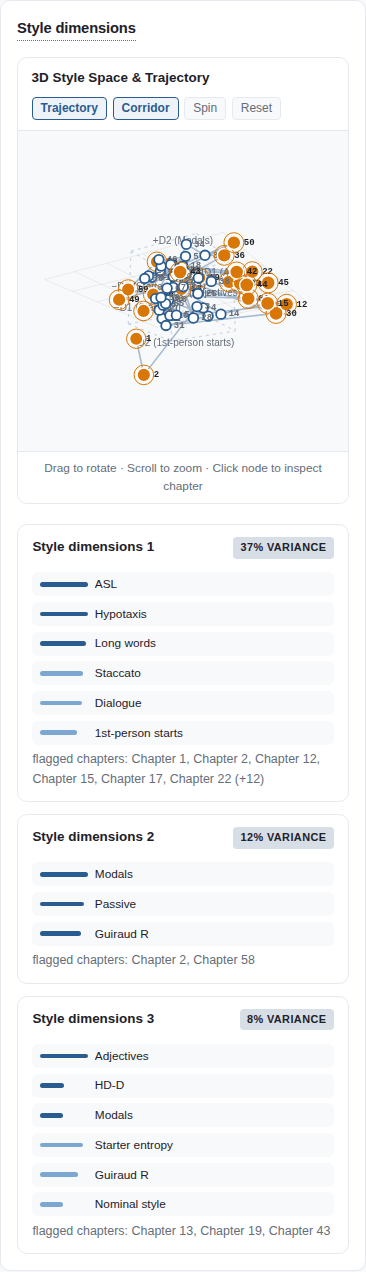
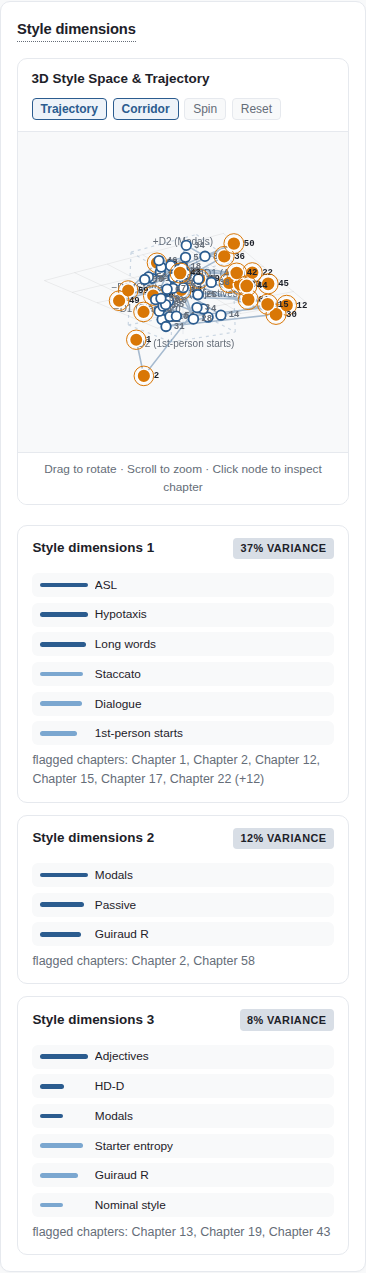
Release Lixity 1.15.0 with verified artifacts and migration guidance

diff --git a/docs/index.html b/docs/index.html
@@ -53,7 +53,7 @@
       "applicationCategory": "UtilitiesApplication",
       "applicationSubCategory": "Linguistic & Stylometric Analysis",
       "operatingSystem": "Linux, macOS, Windows",
-      "softwareVersion": "1.15.0.dev0",
+      "softwareVersion": "1.15.0",
       "isAccessibleForFree": true,
       "license": "https://github.com/mfahsold/lixity/blob/main/LICENSE",
       "codeRepository": "https://github.com/mfahsold/lixity",
@@ -373,9 +373,9 @@ footer {
   </div>
 
   <h2>What It Looks Like</h2>
-  <p><strong>Development preview: 1.15.0.dev0.</strong> This page includes
-    unreleased work on <code>main</code>. The published <code>v1.14.0</code> tag
-    remains a separate installation choice; no <code>v1.15.0</code> release is implied.</p>
+  <p><strong>Lixity 1.15.0.</strong> Explore the refreshed dashboard, shared
+    analysis pipeline and rendering security fixes.
+    <a href="https://github.com/mfahsold/lixity/releases/tag/v1.15.0">Release notes and downloads</a>.</p>
   <span class="section-kicker">Interactive Macro-Editing Dashboard</span>
   <figure class="shot">
     <a href="screenshots/dashboard-light.png" target="_blank" rel="noopener"><img src="screenshots/dashboard-light.png" alt="Lixity interactive HTML dashboard with grouped KPI tiles, style heatmap and tense continuity" width="1600" height="1050" loading="eager" fetchpriority="high" decoding="async"/></a>
@@ -443,7 +443,7 @@ footer {
         engine version and the localized non-commercial-use notice remain visible.</figcaption>
     </figure>
     <figure class="shot">
-      <a href="screenshots/dashboard-dimensions-mobile.png" target="_blank" rel="noopener"><img src="screenshots/dashboard-dimensions-mobile.png" alt="Full mobile style-dimension panel with stacked controls and feature loadings" width="366" height="1272" loading="lazy" decoding="async"/></a>
+      <a href="screenshots/dashboard-dimensions-mobile.png" target="_blank" rel="noopener"><img src="screenshots/dashboard-dimensions-mobile.png" alt="Full mobile style-dimension panel with stacked controls and feature loadings" width="366" height="1273" loading="lazy" decoding="async"/></a>
       <figcaption><strong>Readable mobile diagnostics</strong> &ndash; complete
         dimension cards, wrapping controls and labels rather than a desktop crop.</figcaption>
     </figure>
@@ -629,17 +629,16 @@ footer {
       <a href="https://git-scm.com/downloads">Git</a> and
       <a href="https://docs.astral.sh/uv/getting-started/installation/">uv</a> first;
       uv can supply Python 3.12. No account, API key or manuscript upload is needed.</p>
-    <pre>uv tool install --python 3.12 "git+https://github.com/mfahsold/lixity.git@main"
+    <pre>uv tool install --python 3.12 "git+https://github.com/mfahsold/lixity.git@v1.15.0"
 lixity --version
 lixity about
 lixity build manuscript.md --language en</pre>
     <p>Use a UTF-8 Markdown manuscript with <code>## Chapter title</code> headings.
       Open <code>exports/manuscript_dashboard.html</code> locally. For German,
       use <code>--language de</code>; automatic detection is explicit.</p>
-    <p><strong>Version choice:</strong> <code>main</code> installs the unreleased
-      <code>1.15.0.dev0</code> with the new UI. Choose <code>@v1.14.0</code> instead
-      for the older published release, or pin a reviewed commit for reproducibility.
-      Update the chosen source with <code>uv tool upgrade lixity</code>.</p>
+    <p><strong>Version choice:</strong> <code>@v1.15.0</code> pins this release.
+      Select a future tag explicitly to upgrade; <code>uv tool upgrade lixity</code>
+      retains the chosen ref. Use <code>@main</code> only for development builds.</p>
     <p><strong>Non-commercial use only (LNCL-1.0).</strong> Not on PyPI.
       Python 3.10+ supports the engine; TOML project settings require 3.11+.
       Standalone HTML is not an editing/NDA server; those actions require an adapter.</p>
@@ -710,7 +709,7 @@ html = api.dashboard(text, language="en", title="My Novel")</pre>
       <summary>What languages are supported?</summary>
       <p>Profiles cover English (en), German (de), French (fr), Spanish (es),
         Italian (it), Portuguese (pt), and Dutch (nl), plus a generic fallback.
-        English is the development version's default. Select a language or use
+        English is the default. Select a language or use
         <code>--language auto</code> for function-word-based detection. Dashboard
         resources cover all seven languages; CLI messages currently have English
         and German packs. Heuristic accuracy varies with language and text.</p>

diff --git a/src/lixity/_version.py b/src/lixity/_version.py
@@ -1,3 +1,3 @@
 """Single source of truth for the package version (readable by setuptools without imports)."""
 
-__version__ = "1.15.0.dev0"
+__version__ = "1.15.0"

diff --git a/docs/releases/v1.15.0.md b/docs/releases/v1.15.0.md
@@ -1,0 +1,85 @@
+# Lixity 1.15.0 — coherent dashboards, explicit configuration and safer rendering
+
+This release consolidates the analysis pipeline, improves manuscript inspection
+on desktop and mobile, and fixes security issues in optional adapter controls.
+It remains source-available under LNCL-1.0 for non-commercial use.
+
+## Highlights
+
+- Shared `lixity.pipeline` computes corpus metrics once and reuses them for
+  paragraph profiles and the style fingerprint. Projects reuse the engine
+  rather than maintaining analysis copies.
+- A consistent panel-spacing system, readable mobile tables/charts, clearer
+  settings and project/version identity. The book-style serif is limited to
+  the project title; interface text retains a system sans-serif.
+- Interactive 3D style dimensions with accurate point picking, zoom and
+  rotation controls. Rendering is idle when no animation is requested.
+- Clearer style-reference and fingerprint displays: fixed color-scale legend,
+  FDR markers/filtering, sample counts, robust-reference explanations and
+  chapter-matrix tooltips in seven languages, including keyboard support.
+- English analysis defaults and explicit automatic detection, with localized
+  linguistic resources, numerical formatting and scientific explanations.
+- `--min-chapters` on `style`, `dashboard` and `build`; matching API calibration
+  arguments and explicit threshold mappings for project isolation.
+- Isolated installation recipes, Windows/API/update guidance, refreshed public
+  screenshots, neutral agent guidance and documented integration boundaries.
+
+## Security fixes
+
+NDA records returned by an adapter are now rendered using DOM text properties,
+not raw HTML interpolation. Artifact links reject executable URL schemes.
+Update the engine, restart the embedding server and reload open dashboards.
+Previously exported HTML embeds its old scripts; regenerate it to receive fixes.
+
+These fixes do not make arbitrary adapters safe for remote exposure. Keep local
+services on loopback and treat generated dashboards as private manuscript data.
+
+## Migration checklist
+
+1. **Choose the manuscript language.** Defaults are now English. Pass
+   `--language de` for German or `--language auto` for detection. Existing
+   pipelines relying on implicit detection must select it explicitly.
+2. **Use Python 3.11+ for TOML settings** (3.12 is the installation default).
+   Python 3.10 still runs the engine, but does not load project TOML settings.
+3. **Review project isolation.** Explicit CLI file paths load configuration
+   relative to that manuscript. API `project_config={}` disables implicit
+   threshold discovery; language/title/corpus options remain explicit.
+4. **Review thresholds.** `min_chapters` is now honored by the public API and
+   must be an integer of at least 2. Re-read resolved settings from passport
+   metadata; threshold hits and FDR-selected cells are different result sets.
+5. **Use the local environment.** `make install` now creates `.venv` instead
+   of installing into global Python. Invoke `.venv/bin/lixity` or activate it.
+6. **Use one NDA workflow.** The duplicate legacy entry form was removed;
+   the encrypted NDA manager remains available through supporting adapters.
+
+JSON analysis/profile schema remains v2; the style passport remains v4.
+No manuscript migration or destructive data conversion is performed.
+Standalone HTML is an analysis document, not a bundled editing/NDA server.
+
+## Install or replace an older CLI
+
+Requires Git and uv:
+
+```sh
+uv tool install --force --python 3.12 "git+https://github.com/mfahsold/lixity.git@v1.15.0"
+lixity --version
+lixity build manuscript.md --language en
+```
+
+Open `exports/manuscript_dashboard.html`. The tag is pinned; selecting a future
+release requires changing the tag explicitly. Wheel and source distribution
+downloads include `SHA256SUMS` for integrity verification. This checksum file
+is not a cryptographic signature or independent publisher attestation.
+
+## Validation and limits
+
+Release preparation includes Python tests, strict typing/lint, browser layout
+and interaction checks at 320/390/768/1440 pixels, synthetic injection tests,
+clean-environment installation and idempotent workspace builds. CI covers
+Python 3.10–3.13. These checks do not establish language-wide accuracy or an
+objective writing-quality measure. Small corpora and heuristic patterns still
+require careful interpretation; canvas keyboard navigation remains limited.
+
+[Full changelog](https://github.com/mfahsold/lixity/blob/v1.15.0/CHANGELOG.md)
+· [Installation](https://github.com/mfahsold/lixity/blob/v1.15.0/docs/INSTALLATION.md)
+· [Methods and limits](https://github.com/mfahsold/lixity/blob/v1.15.0/docs/STABILITY.md)

diff --git a/docs/INSTALLATION.md b/docs/INSTALLATION.md
@@ -20,33 +20,33 @@ the GitHub source commands. Install [Git](https://git-scm.com/downloads) and
 Do not run multiple installation routes into the same environment, use `sudo
 pip`, or bypass an externally managed Python environment.
 
-## CLI: current development version
+## CLI: current release
 
 These commands work in a terminal, including Windows PowerShell:
 
 ```sh
-uv tool install --python 3.12 "git+https://github.com/mfahsold/lixity.git@main"
+uv tool install --python 3.12 "git+https://github.com/mfahsold/lixity.git@v1.15.0"
 lixity --version
 lixity about
 ```
 
-The current checkout is **1.15.0.dev0**, not a published 1.15.0 release.
-`main` includes the new UI and shared pipeline and can change. For reproducible
-automation, replace `main` with a reviewed full commit hash.
+The current release is **v1.15.0**. The tag includes the new UI, shared pipeline
+and rendering security fixes. For reproducible automation, pin this tag or
+its reviewed full commit hash. Read the [migration notes](releases/v1.15.0.md).
 
 If `lixity` is not found, run `uv tool update-shell`, open a new terminal and
 retry. `uv tool list` shows the installed source. A tool installation does not
 make `import lixity` available to a different Python environment.
 
-### Published release instead
+### Development builds instead
 
-If you prefer the older published release, use this **instead**:
+To follow unreleased changes, use this **instead**:
 
 ```sh
-uv tool install --python 3.12 "git+https://github.com/mfahsold/lixity.git@v1.14.0"
+uv tool install --python 3.12 "git+https://github.com/mfahsold/lixity.git@main"
 ```
 
-New development features are not included in that release. Review
+`main` can change and is not a release pin. Review
 [release notes](https://github.com/mfahsold/lixity/releases) before switching.
 To deliberately replace an existing installation, repeat the chosen command
 with `--force`. This does not alter manuscript files.
@@ -63,7 +63,7 @@ selected source/ref: a pinned tag or commit does not move to `main`.
 Restart any running adapter/server after an engine update.
 
 If you already use pipx, the equivalent alternative is
-`pipx install "git+https://github.com/mfahsold/lixity.git@main"`, followed by
+`pipx install "git+https://github.com/mfahsold/lixity.git@v1.15.0"`, followed by
 `pipx ensurepath` if necessary; update with `pipx upgrade lixity`.
 
 ## First useful result
@@ -98,7 +98,7 @@ Linux/macOS:
 
 ```sh
 python3 -m venv .venv
-.venv/bin/python -m pip install "git+https://github.com/mfahsold/lixity.git@main"
+.venv/bin/python -m pip install "git+https://github.com/mfahsold/lixity.git@v1.15.0"
 .venv/bin/python -m pip check
 .venv/bin/python -c "import lixity; print(lixity.__version__)"
 ```
@@ -107,7 +107,7 @@ Windows PowerShell (no activation or execution-policy change needed):
 
 ```powershell
 py -3.12 -m venv .venv
-.\.venv\Scripts\python.exe -m pip install "git+https://github.com/mfahsold/lixity.git@main"
+.\.venv\Scripts\python.exe -m pip install "git+https://github.com/mfahsold/lixity.git@v1.15.0"
 .\.venv\Scripts\python.exe -m pip check
 .\.venv\Scripts\python.exe -c "import lixity; print(lixity.__version__)"
 ```

diff --git a/README.md b/README.md
@@ -103,15 +103,15 @@ Install from GitHub into an isolated CLI environment. Requires Git and
 Python 3.12. Source-available under LNCL-1.0, **non-commercial use only**, not PyPI.
 
 ```bash
-uv tool install --python 3.12 "git+https://github.com/mfahsold/lixity.git@main"
+uv tool install --python 3.12 "git+https://github.com/mfahsold/lixity.git@v1.15.0"
 lixity --version
 lixity about
 ```
 
-This installs **1.15.0.dev0 from main**, including the new UI; it is not a
-published 1.15.0 release. Use `@v1.14.0` instead for the older published release,
-or a full commit hash for reproducible deployments. Update your chosen source
-with `uv tool upgrade lixity`; a pinned ref remains pinned.
+This installs **v1.15.0**, including the new UI, shared pipeline and security
+fixes. The tag stays pinned: upgrading to a future release requires selecting
+its tag explicitly. Use `@main` only for development builds, or a reviewed
+full commit hash for reproducible deployments.
 
 **[Full installation guide](docs/INSTALLATION.md):** Windows/macOS/Linux,
 pipx alternative, Python API environments, PATH repair, upgrades and removal.
@@ -188,11 +188,11 @@ Full command reference, metric glossary, worked example, and troubleshooting:
 [`docs/AGENTS.md`](docs/AGENTS.md). Project website:
 [mfahsold.github.io/lixity](https://mfahsold.github.io/lixity/).
 
-## What's new in the development version
+## What's new in v1.15.0
 
-**1.15.0.dev0 is an unreleased development version.** The latest version
-listed in the release history is 1.14.0; its tag does not include the changes
-below. Use an editable checkout to try them before the next release.
+**v1.15.0** includes the UI, architecture and security improvements below.
+Read the [release notes and migration checklist](docs/releases/v1.15.0.md)
+before updating an existing project, especially its language defaults.
 
 - **Explore style in 3D:** rotate and zoom chapter trajectories, toggle the
   trajectory and threshold box, and select a point to reach its chapter.
@@ -236,7 +236,7 @@ An empty `project_config={}` isolates thresholds from user/project files;
 explicit threshold arguments override the supplied mapping. The pipeline itself
 does not read files, discover projects or maintain global session state.
 
-Adapters using the shared pipeline must install this checkout until release.
+Adapters using the shared pipeline require Lixity 1.15.0 or newer.
 See [architecture and integration boundaries](docs/ARCHITECTURE.md) for the
 configuration contract and [language support](docs/LOCALIZATION.md) for its
 scope, guarantees and limitations.

diff --git a/CHANGELOG.md b/CHANGELOG.md
@@ -7,6 +7,10 @@ this project uses [Semantic Versioning](https://semver.org/spec/v2.0.0.html).
 
 ## [Unreleased]
 
+No changes yet.
+
+## [1.15.0] – 2026-09-24
+
 ### Added
 
 - Explanatory settings form with visible labels, expandable thresholds,
@@ -21,7 +25,7 @@ this project uses [Semantic Versioning](https://semver.org/spec/v2.0.0.html).
 - Browser regression checks and localization contracts for all seven profiles.
 - Architecture and localization guides with explicit engine/adapter boundaries.
 - Shared project header with engine version and localized non-commercial-use notice.
-- Eleven refreshed public-sample screenshots, including full dimension panels,
+- Thirteen refreshed public-sample screenshots, including full dimension panels,
   real expanded paragraph context, mobile views and dark-mode diagnostics.
 
 ### Changed
@@ -30,7 +34,7 @@ this project uses [Semantic Versioning](https://semver.org/spec/v2.0.0.html).
   Windows, updates and first-run verification. `make install` uses `.venv`
   rather than global Python; both installation targets check dependencies.
 
-- Development version is `1.15.0.dev0`; no new release tag is published yet.
+- Promoted the reviewed `1.15.0.dev0` work to release `1.15.0`.
 - CLI/API/core analysis defaults to English. Use `--language de` for German
   or `--language auto` for detection; CLI project language settings are honored.
 - Documentation and comments use English; localized resources remain multilingual.
@@ -800,7 +804,8 @@ this project uses [Semantic Versioning](https://semver.org/spec/v2.0.0.html).
   seven language profiles plus a neutral fallback, and idempotent publication
   helpers.
 
-[Unreleased]: https://github.com/mfahsold/lixity/compare/v1.14.0...HEAD
+[Unreleased]: https://github.com/mfahsold/lixity/compare/v1.15.0...HEAD
+[1.15.0]: https://github.com/mfahsold/lixity/compare/v1.14.0...v1.15.0
 [1.14.0]: https://github.com/mfahsold/lixity/compare/v1.13.0...v1.14.0
 [1.13.0]: https://github.com/mfahsold/lixity/compare/v1.12.0...v1.13.0
 [1.12.0]: https://github.com/mfahsold/lixity/compare/v1.11.0...v1.12.0

diff --git a/docs/USAGE.md b/docs/USAGE.md
@@ -25,13 +25,13 @@ Lixity is source-available under LNCL-1.0 for non-commercial use, not on PyPI.
 With Git and uv installed, the recommended CLI setup is:
 
 ```bash
-uv tool install --python 3.12 "git+https://github.com/mfahsold/lixity.git@main"
+uv tool install --python 3.12 "git+https://github.com/mfahsold/lixity.git@v1.15.0"
 lixity --version
 lixity about
 ```
 
-`main` is the unreleased 1.15.0.dev0 checkout. Choose `@v1.14.0` instead for
-the older published release, or a full commit hash for reproducibility.
+`v1.15.0` is the release pin. Choose `@main` only to follow development,
+or a reviewed full commit hash for reproducibility.
 `uv tool upgrade lixity` updates within the chosen source/ref. Reopen your
 terminal after `uv tool update-shell` if the command is not found.
 The engine supports Python 3.10+; TOML project configuration needs 3.11+.
@@ -87,7 +87,7 @@ which writes a single HTML file.
 
 ## Development dashboard workflow
 
-The `1.15.0.dev0` checkout adds the shared pipeline and the 3D style-space
+The `1.15.0` release adds the shared pipeline and the 3D style-space
 interaction. These features are not promised for the older `v1.14.0` tag.
 
 ```bash

diff --git a/docs/AGENTS.md b/docs/AGENTS.md
@@ -58,7 +58,7 @@ is importable by a project adapter. TOML configuration requires Python 3.11+.
   user-facing messages to German); stdout carries only the payload.
 - Report language: English by default, German via `LIXITY_LANG=de`.
 
-Development version `1.15.0.dev0` also defaults the analysis language to
+Release `1.15.0` defaults the analysis language to
 English. Pass the intended manuscript language or explicit `auto`; do not
 assume the previous automatic default. Language-independent JSON identifiers
 remain unchanged. See [LOCALIZATION.md](LOCALIZATION.md).
@@ -72,7 +72,7 @@ implicit project switching; see [ARCHITECTURE.md](ARCHITECTURE.md).
 ### 3.1 `analyze --json` (schema_version 2)
 
 ```json
-{"meta": {"tool": "lixity", "version": "1.14.0", "schema_version": 2, "language": "de"},
+{"meta": {"tool": "lixity", "version": "1.15.0", "schema_version": 2, "language": "de"},
  "metrics": {"raw_words": 55331, "asl": 9.63, "ttr": 0.1784, "guiraud_r": 41.11,
              "hd_d": 0.997, "mtld": 78.4, "mattr": 0.742, "maas_a2": 0.031,
              "flesch_de": 71.2, "flesch_variant": "Flesch Reading Ease (Amstad)",

diff --git a/docs/LOCALIZATION.md b/docs/LOCALIZATION.md
@@ -6,7 +6,7 @@ Documentation, comments and docstrings are English. Localized resource values,
 quoted material and linguistic fixtures retain their intended language.
 Machine-readable keys and tense identifiers remain language-neutral.
 
-From `1.15.0.dev0`, CLI/API analysis and `CorpusConfig` default to English.
+From `1.15.0`, CLI/API analysis and `CorpusConfig` default to English.
 CLI `--language` overrides the project's `language` setting; without either,
 English applies. API callers select their language through the argument.
 `auto` is explicit and resolves to `generic` for weak or ambiguous evidence.

diff --git a/docs/STABILITY.md b/docs/STABILITY.md
@@ -8,9 +8,9 @@ Severity: 🔴 high (can mislead users) · 🟠 medium (can break silently) ·
 
 ## 1. Research findings (state of the art)
 
-### Development-version guarantees and limits
+### Release verification and limits
 
-The `1.15.0.dev0` suite checks English defaults, language resource-key coverage,
+The `1.15.0` suite checks English defaults, language resource-key coverage,
 readability-coefficient dispatch and locale formatting. These are software
 contracts, not empirical validation of linguistic accuracy across seven
 languages. No language-wide accuracy percentage is established by this suite.

diff --git a/SECURITY.md b/SECURITY.md
@@ -7,8 +7,8 @@ publishing exploit details before maintainers can assess the report.
 
 ## Versions and scope
 
-The current development checkout is **1.15.0.dev0**; the published release is
-**v1.14.0**. Reports should identify the exact tag or commit. Fixes are developed
+The current release is **v1.15.0**, including dashboard rendering security
+fixes. Reports should identify the exact tag or commit. Fixes are developed
 on `main`; backports are evaluated case by case. A development version is not
 a production-support guarantee.
 

diff --git a/docs/ARCHITECTURE.md b/docs/ARCHITECTURE.md
@@ -1,7 +1,7 @@
 # Architecture and integration boundaries
 
-This document describes the `1.15.0.dev0` development checkout. It does not
-claim these interfaces are present in the published `v1.14.0` tag.
+This document describes Lixity `1.15.0`. The shared pipeline and explicit
+API threshold mappings require this release or newer.
 
 ## Layers
 
